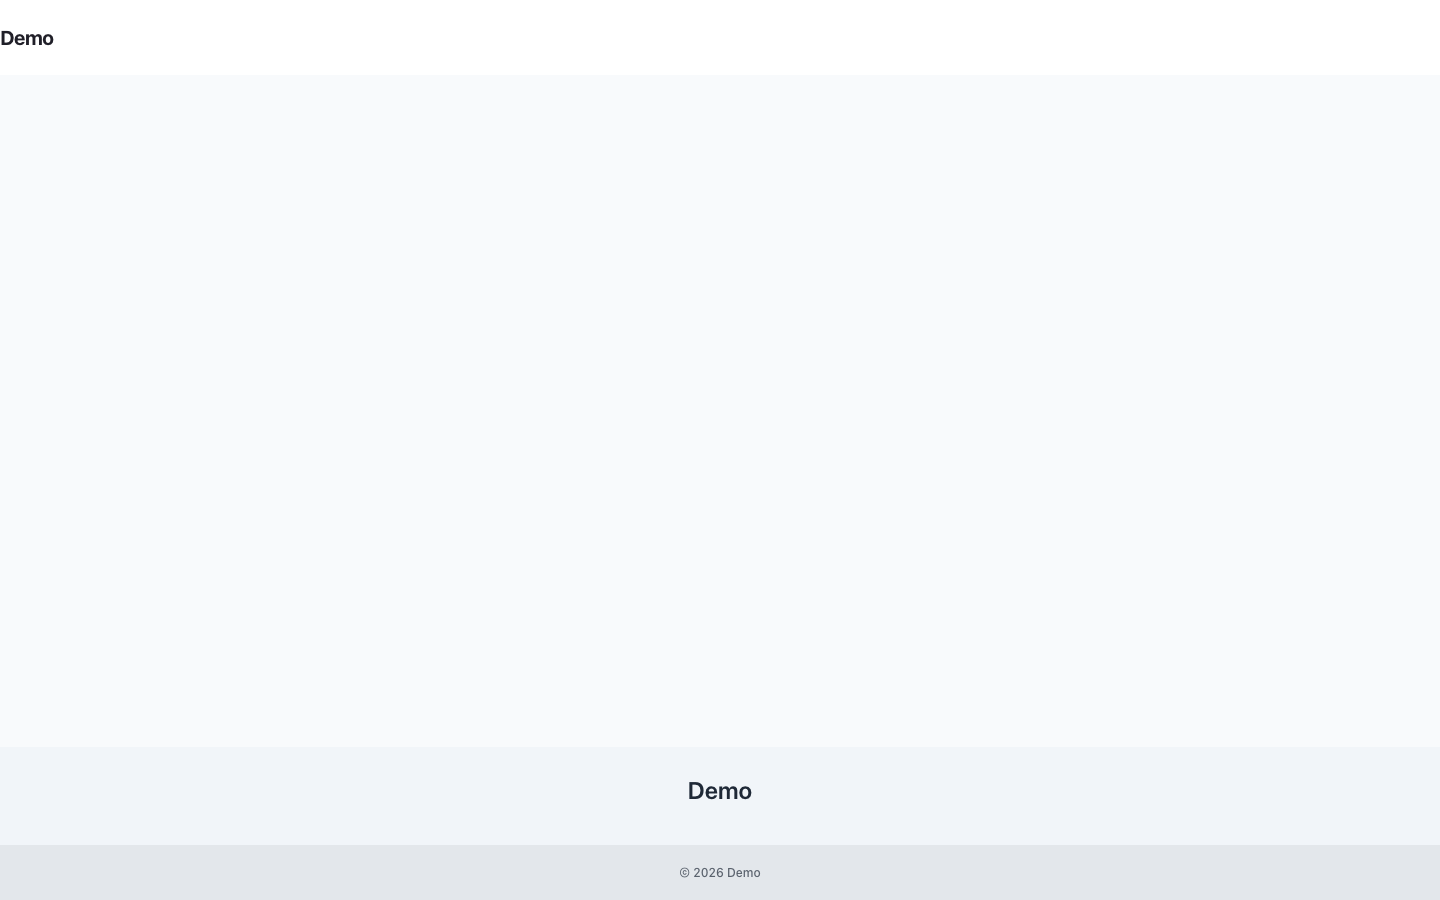
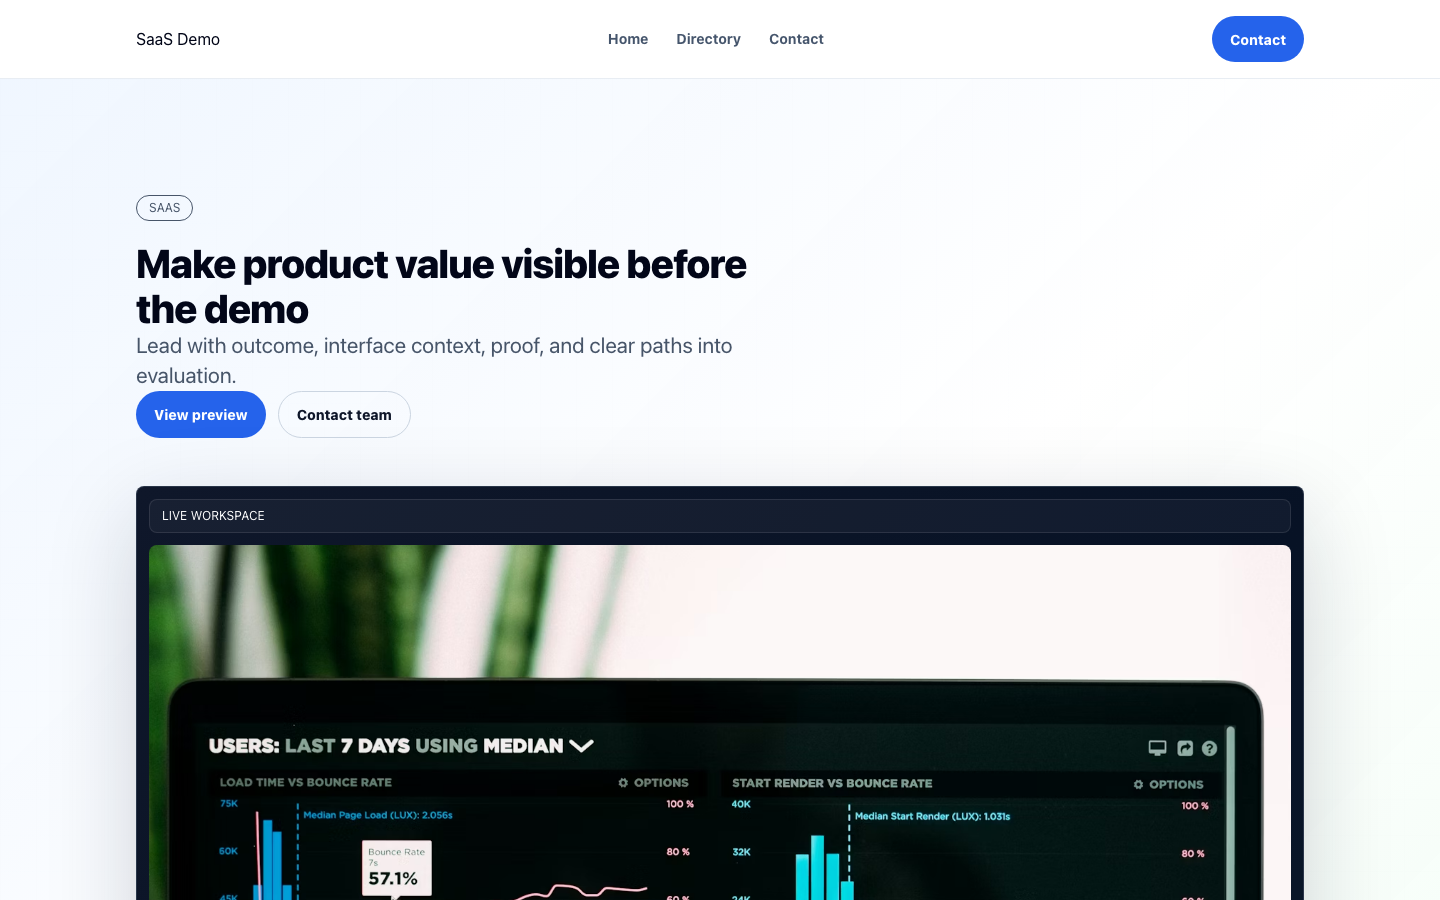
Fix theme saas primary screenshot route

diff --git a/packages/theme-saas/resources/css/theme-saas.css b/packages/theme-saas/resources/css/theme-saas.css
@@ -84,6 +84,18 @@
         transform: translateY(0);
     }
 
+    .saas-navigation__links {
+        align-items: center;
+        display: none;
+        gap: 1.75rem;
+    }
+
+    @media (min-width: 48rem) {
+        .saas-navigation__links {
+            display: flex;
+        }
+    }
+
     :where(
         .saas-shell a,
         .saas-shell button,

diff --git a/packages/theme-saas/resources/views/sections/navigation.blade.php b/packages/theme-saas/resources/views/sections/navigation.blade.php
@@ -11,7 +11,7 @@
         </a>
 
         <div
-            class="hidden items-center gap-7 text-sm font-bold text-slate-600 md:flex"
+            class="saas-navigation__links hidden items-center gap-7 text-sm font-bold text-slate-600 md:flex"
         >
             @foreach ($section->items as $item)
                 <a

diff --git a/docs/improvement-plan-status.md b/docs/improvement-plan-status.md
@@ -82,7 +82,7 @@ No package should be marked `Complete` from commit history alone. Completion req
 | theme-local-services | 0 | 5 | 3 | Now closed | Current follow-up removes older static desktop/mobile hero artwork from marketplace product media, leaving the extension card plus runner-backed layout captures. Prior slices removed the only orphan `dark:` utilities from `services.blade.php`, translated remaining fallback copy, hydrated the hero image as the LCP element, and replaced SVG marketplace diagrams with Capell runner PNG captures while fulfilling all nine `docs/screenshots.json` paths. Local Services has no Now rows left; continue with LocalBusiness schema, reviews/opening-hours sections, token/radius work, and full section/render-budget coverage. |
 | theme-nonprofit | 0 | 6 | 4 | Now closed | Current follow-up removes older static desktop/mobile hero artwork from marketplace product media, leaving the extension card plus runner-backed layout captures. Prior slices replaced the three SVG marketplace diagrams with Capell runner PNG captures and fulfilled all nine `docs/screenshots.json` paths for admin availability, signed preview, homepage, campaigns, impact, volunteer/donate, events, stories, and frontend output. Nonprofit has no Now rows left; continue with donation/payment flow, volunteer/event/story connected branches, token colours, hero LCP/progressbar, data-driven campaigns/stories/contact, and render-budget coverage. |
 | theme-portfolio | 0 | 4 | 3 | Now closed | Current follow-up removes older static desktop/mobile hero artwork from marketplace product media, leaving the extension card plus runner-backed layout captures. Prior slices added the creator-lane `about-bio` section, registered it in the Theme Studio definition and health-check file contract, shipped translated profile defaults, replaced SVG marketplace diagrams with Capell runner PNG captures, and fulfilled all nine `docs/screenshots.json` paths. Portfolio has no Now rows left; continue with token colours, dark preset, newsletter capture, empty states, and render-budget coverage. |
-| theme-saas | 0 | 6 | 3 | Now closed | Current follow-up aligns the screenshot contract with the promoted `theme-preset-selection-showing-saas.png` asset, declares the promoted dark preset/preview/frontend alternates as `darkScreenshotPath` entries, and marks frontend captures anonymous. A focused runner attempt proved `/saas-homepage-layout` and `/theme-saas-demo` currently render generic Demo output, so bad generated PNGs were discarded instead of promoted. Prior slices replaced visible jargon placeholder copy in `generic.php`, added public-output/query coverage, translated fallback copy, real health diagnostics, README/overview verification-command guidance, and cache-safety metadata. Continue by fixing SaaS demo seeding/slug routing before route-backed screenshot captures, then tokenization and genuine dark mode before completion review. |
+| theme-saas | 0 | 6 | 3 | Now closed | Current follow-up aligns the screenshot contract with the promoted `theme-preset-selection-showing-saas.png` asset, declares promoted dark alternates as `darkScreenshotPath` entries, marks frontend captures anonymous, corrects the primary frontend URL to `/theme-saas`, fixes SaaS nav link spacing with a package-owned fallback class, and recaptures the promoted frontend PNG through the real styled route. Layout-specific routes such as `/saas-homepage-layout` still render 404/generic output and remain unpromoted. Prior slices replaced visible jargon copy, added public-output/query coverage, translated fallback copy, real health diagnostics, README/overview verification guidance, and cache-safety metadata. Continue by fixing SaaS layout slug routing before additional screenshots, then tokenization and genuine dark mode before completion review. |
 | translation-manager | 0 | 0 | 0 | Complete | Completion review reconciled all roadmap rows plus stale plan text: Translation Manager ships the Filament-native grid, CSV/XLIFF/PO workflows, publish readiness, missing-key scan, fallback/stale detection, reviewed AI/memory/glossary flows, safe override writes, request-local source discovery memoization, and explicit residual-risk notes for large exports, per-source write permissions, bundled locales, and concurrency hardening. No roadmap rows remain. |
 | url-manager | 0 | 2 | 3 | Now closed | Current follow-up reconciles shipped redirect depth: regex patterns are validated and bounded, exact redirect chains are collapsed with loop detection, 404 opportunity capture is registered through the frontend route middleware registry, priority ordering is persisted and used by the resolver/form/table, prefix/regex scans are bounded, and `config/capell-url-manager.php` exposes status codes, host allowlists, regex limits, hit retention, 404 capture, and canonical settings. Continue with Core redirect-resolver invocation verification, resolver fallback/preserve-query/SEO-import coverage, prefix-cascade redirects, canonical surface depth, translations, and completion review. |
 | welcome-tour | 0 | 0 | 1 | Near complete | Current follow-up reconciles the plan against shipped code: anchored default admin steps, benefit-led marketplace/Composer copy and expanded keywords, dashboard restart/snooze, per-user resume, per-step progress, onboarding checklist widget, role/first-run targeting, lifecycle events, literal step copy, and runner-backed marketplace PNGs are all shipped. Continue with contextual resource/page tours beyond dashboard-level contributed steps before completion review. |

diff --git a/improvement-plan-status.md b/improvement-plan-status.md
@@ -82,7 +82,7 @@ No package should be marked `Complete` from commit history alone. Completion req
 | theme-local-services | 0 | 5 | 3 | Now closed | Current follow-up removes older static desktop/mobile hero artwork from marketplace product media, leaving the extension card plus runner-backed layout captures. Prior slices removed the only orphan `dark:` utilities from `services.blade.php`, translated remaining fallback copy, hydrated the hero image as the LCP element, and replaced SVG marketplace diagrams with Capell runner PNG captures while fulfilling all nine `docs/screenshots.json` paths. Local Services has no Now rows left; continue with LocalBusiness schema, reviews/opening-hours sections, token/radius work, and full section/render-budget coverage. |
 | theme-nonprofit | 0 | 6 | 4 | Now closed | Current follow-up removes older static desktop/mobile hero artwork from marketplace product media, leaving the extension card plus runner-backed layout captures. Prior slices replaced the three SVG marketplace diagrams with Capell runner PNG captures and fulfilled all nine `docs/screenshots.json` paths for admin availability, signed preview, homepage, campaigns, impact, volunteer/donate, events, stories, and frontend output. Nonprofit has no Now rows left; continue with donation/payment flow, volunteer/event/story connected branches, token colours, hero LCP/progressbar, data-driven campaigns/stories/contact, and render-budget coverage. |
 | theme-portfolio | 0 | 4 | 3 | Now closed | Current follow-up removes older static desktop/mobile hero artwork from marketplace product media, leaving the extension card plus runner-backed layout captures. Prior slices added the creator-lane `about-bio` section, registered it in the Theme Studio definition and health-check file contract, shipped translated profile defaults, replaced SVG marketplace diagrams with Capell runner PNG captures, and fulfilled all nine `docs/screenshots.json` paths. Portfolio has no Now rows left; continue with token colours, dark preset, newsletter capture, empty states, and render-budget coverage. |
-| theme-saas | 0 | 6 | 3 | Now closed | Current follow-up aligns the screenshot contract with the promoted `theme-preset-selection-showing-saas.png` asset, declares the promoted dark preset/preview/frontend alternates as `darkScreenshotPath` entries, and marks frontend captures anonymous. A focused runner attempt proved `/saas-homepage-layout` and `/theme-saas-demo` currently render generic Demo output, so bad generated PNGs were discarded instead of promoted. Prior slices replaced visible jargon placeholder copy in `generic.php`, added public-output/query coverage, translated fallback copy, real health diagnostics, README/overview verification-command guidance, and cache-safety metadata. Continue by fixing SaaS demo seeding/slug routing before route-backed screenshot captures, then tokenization and genuine dark mode before completion review. |
+| theme-saas | 0 | 6 | 3 | Now closed | Current follow-up aligns the screenshot contract with the promoted `theme-preset-selection-showing-saas.png` asset, declares promoted dark alternates as `darkScreenshotPath` entries, marks frontend captures anonymous, corrects the primary frontend URL to `/theme-saas`, fixes SaaS nav link spacing with a package-owned fallback class, and recaptures the promoted frontend PNG through the real styled route. Layout-specific routes such as `/saas-homepage-layout` still render 404/generic output and remain unpromoted. Prior slices replaced visible jargon copy, added public-output/query coverage, translated fallback copy, real health diagnostics, README/overview verification guidance, and cache-safety metadata. Continue by fixing SaaS layout slug routing before additional screenshots, then tokenization and genuine dark mode before completion review. |
 | translation-manager | 0 | 0 | 0 | Complete | Completion review reconciled all roadmap rows plus stale plan text: Translation Manager ships the Filament-native grid, CSV/XLIFF/PO workflows, publish readiness, missing-key scan, fallback/stale detection, reviewed AI/memory/glossary flows, safe override writes, request-local source discovery memoization, and explicit residual-risk notes for large exports, per-source write permissions, bundled locales, and concurrency hardening. No roadmap rows remain. |
 | url-manager | 0 | 2 | 3 | Now closed | Current follow-up reconciles shipped redirect depth: regex patterns are validated and bounded, exact redirect chains are collapsed with loop detection, 404 opportunity capture is registered through the frontend route middleware registry, priority ordering is persisted and used by the resolver/form/table, prefix/regex scans are bounded, and `config/capell-url-manager.php` exposes status codes, host allowlists, regex limits, hit retention, 404 capture, and canonical settings. Continue with Core redirect-resolver invocation verification, resolver fallback/preserve-query/SEO-import coverage, prefix-cascade redirects, canonical surface depth, translations, and completion review. |
 | welcome-tour | 0 | 0 | 1 | Near complete | Current follow-up reconciles the plan against shipped code: anchored default admin steps, benefit-led marketplace/Composer copy and expanded keywords, dashboard restart/snooze, per-user resume, per-step progress, onboarding checklist widget, role/first-run targeting, lifecycle events, literal step copy, and runner-backed marketplace PNGs are all shipped. Continue with contextual resource/page tours beyond dashboard-level contributed steps before completion review. |

diff --git a/packages/theme-saas/docs/improvement-plan.md b/packages/theme-saas/docs/improvement-plan.md
@@ -57,7 +57,7 @@ Manifest `capabilities[]` is only `["theme-saas", "theme-saas-frontend"]` — i.
 - **Health check shipped, keep expanding diagnostics as the package grows.** `ThemeSaasHealthCheck` now verifies theme registration, required views, manifest/provider wiring, and marketplace media. Add future sections/assets to those diagnostics instead of letting the critical check drift back into a shallow compatibility-only assertion. — `src/Health/ThemeSaasHealthCheck.php`, `capell.json` healthChecks.
 - **Closed 2026-06-05: Rendered-output safety coverage now complements static grep.** `tests/Unit/PublicOutputSafetyTest.php` still reads the Blade _source files_ and asserts the strings (`Filament`, `wire:`, `data-model`, `DB::`, `Frontend::`, `->translation`, `find(`) are absent. `SaasThemeDefinitionTest` now renders the full SaaS page renderer across every public section for anonymous and non-admin visitors with realistic section data, asserting the output hides authoring/package metadata, editor markers, field/model paths, signed/admin strings, and contenteditable surfaces. — `tests/Unit/PublicOutputSafetyTest.php`, `tests/Unit/SaasThemeDefinitionTest.php`.
 - **`docs/screenshots.json` still has unfulfilled route-backed media.** 12 required PNG targets are declared; the current marketplace block now points only at committed runner PNGs for theme preset selection, signed preview URL, and frontend render in light/dark mode. The contract now matches the promoted `theme-preset-selection-showing-saas.png` asset and declares the promoted dark alternates. The route-backed layout PNGs (`saas-homepage-layout.png`, `saas-feature-layout.png`, `saas-pricing-layout.png`, `saas-docs-layout.png`, `saas-blog-layout.png`, `saas-demo-request-layout.png`, `saas-webinar-layout.png`, `saas-search-layout.png`, `saas-campaign-layout.png`) are still not committed, so those capture targets remain open before full Marketplace media approval. — `docs/screenshots.json`, `docs/screenshots/`.
-- **`screenshots.json` references routes that don't render SaaS content in the current runner.** Targets like `/saas-homepage-layout`, `/saas-webinar-layout`, `/saas-campaign-layout`, `/saas-search-layout` are public frontend captures and are now marked anonymous, but a 2026-06-06 focused runner attempt for `/saas-homepage-layout` and `/theme-saas-demo` produced generic Demo output rather than a SaaS theme page. The package registers **no routes** (`database.requiredTables: []`, no `frontend` provider), so these layouts presumably only exist transiently after `capell:theme-saas-demo` seeds pages; fix the demo seeding/slug routing before capturing or promoting them. — `docs/screenshots.json`, `src/Actions/InstallSaasThemeDemoAction.php`.
+- **Primary SaaS screenshot route fixed; layout routes still unfulfilled.** Public frontend captures are now marked anonymous, and `frontend-page-rendered-with-saas-theme` targets the real seeded `/theme-saas` slug instead of the stale `/theme-saas-demo` path. A 2026-06-06 focused runner capture now renders the styled SaaS shell, and a small navigation fallback class keeps the header links spaced when Tailwind utility gaps are missing from the built runner asset. Layout-specific targets like `/saas-homepage-layout`, `/saas-webinar-layout`, `/saas-campaign-layout`, and `/saas-search-layout` still do not map to seeded pages yet; fix those slugs or add package-owned fixtures before capturing/promoting them. — `docs/screenshots.json`, `resources/views/sections/navigation.blade.php`, `resources/css/theme-saas.css`, `src/Actions/InstallSaasThemeDemoAction.php`.
 - **Verification command context documented.** Package README and overview now instruct maintainers to run `vendor/bin/pest packages/theme-saas/tests` from the repository root, where Pest picks up the root `phpunit.xml`; the package does not ship a local PHPUnit config. — `README.md`, `docs/overview.md`.
 - **Closed 2026-06-05: Adapter query-count ceiling covered.** Manifest sets `frontendRenderBudgetMs: 20`, `adminQueryBudget: 0`. Public Blade is DB-safe (grep for `::query`, `DB::`, `->paginate`, `Model::`, `find(` in views returned none; `PublicOutputSafetyTest` enforces it statically). `SaasThemePageAdapterTest` now asserts the adapter builds `ThemePageData` from hydrated `Frontend` context without database queries. Keep the runtime budget covered if the adapter starts loading related data itself. — `capell.json` performance, `src/ThemeStudio/Adapters/SaasThemePageAdapter.php`, `tests/Unit/SaasThemePageAdapterTest.php`.
 - **Cache safety manifest reconciled.** Theme output remains declared non-cacheable, varies by `site`/`locale`, has no invalidation sources, and no longer queues invalidation. Keep this relationship covered if the theme later becomes cacheable. — `capell.json` performance.cacheSafety.
